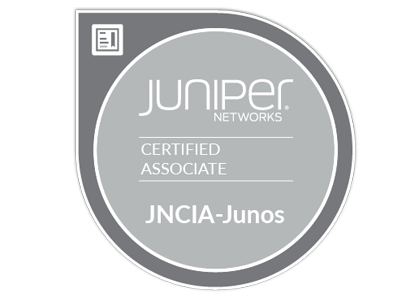
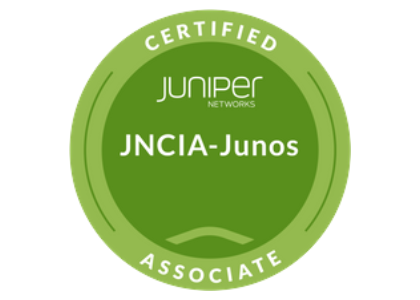
Change New Badge JNCIA and Expired Date

diff --git a/assets/js/certification.js b/assets/js/certification.js
@@ -226,7 +226,7 @@ const moocscards = [
     title: "Juniper Networks Certified Associate, Junos (JNCIA-Junos)",
     ID: "JPR00297543",
     DATE: "2020-07-17",
-    EXPIRED: "Seumur Hidup",
+    EXPIRED: "2023-07-17",
     cardImage: "assets/images/certification-page/jncia-junos.png",
     moocLink: "assets/images/certification-page/jncia-junos.pdf",
     Badge: "https://www.youracclaim.com/badges/e62840d2-fe03-4d09-87c7-9945424f5df9",
